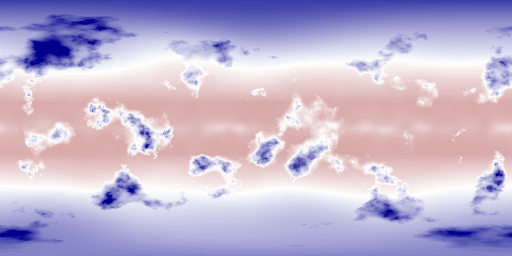
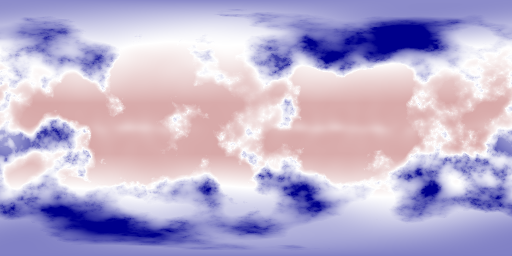
update example textures and README

diff --git a/ch.obermuhlner.planetgen/src/test/java/ch/obermuhlner/planetgen/test/PlanetGeneratorTest.java b/ch.obermuhlner.planetgen/src/test/java/ch/obermuhlner/planetgen/test/PlanetGeneratorTest.java
@@ -16,17 +16,16 @@ import java.util.Arrays;
 import java.util.Map;
 
 public class PlanetGeneratorTest {
-    @Test
-    public void testGetPlanetPoint() {
+    private Planet generatePlanet() {
         PlanetGenerator planetGenerator = new PlanetGenerator();
 
         // unique seed for the planet
-        long[] seed = new long[] { 123L };
+        long[] seed = new long[] { 4 };
 
         // generate planet data for unique seed
         PlanetData planetData = planetGenerator.createPlanetData(seed);
 
-        // random generated planet data
+        // print some values of generated planet
         System.out.println("radius : " + planetData.radius + " m");
         System.out.println("revolutionTime : " + planetData.revolutionTime + " s");
         System.out.println("orbitTime : " + planetData.orbitTime + " s");
@@ -37,13 +36,22 @@ public class PlanetGeneratorTest {
         // create planet according to planet data constraints
         Planet planet = planetGenerator.createPlanet(planetData);
 
+        return planet;
+    }
+
+    @Test
+    public void testGetPlanetPoint() {
+        Planet planet = generatePlanet();
+
         // specify which layers and what accuracy you need (default has all layers and good enough accuracy)
         PlanetGenerationContext context = planet.createDefaultContext();
 
         // generate planet at one specific point (useful to know about the current location of a player in a game)
-        double latitudeRadians = Math.toRadians(180) - Math.toRadians(47.2266 + 90);
-        double longitudeRadians = Math.toRadians(8.8184);
+        double latitudeRadians = Math.toRadians(90.0);
+        double longitudeRadians = Math.toRadians(0.0);
         PlanetPoint planetPoint = planet.getPlanetPoint(latitudeRadians, longitudeRadians, context);
+
+        // print some values for the specific point on the planet
         System.out.println("height : " + planetPoint.height + " m");
         System.out.println("temperature : " + planetPoint.temperature + " K");
         System.out.println("precipitation : " + planetPoint.precipitation);
@@ -52,22 +60,20 @@ public class PlanetGeneratorTest {
 
     @Test
     public void testGetTextures() {
-        PlanetGenerator planetGenerator = new PlanetGenerator();
-        long[] seed = new long[] { 123L };
-        PlanetData planetData = planetGenerator.createPlanetData(seed);
-        planetData.baseTemperature = 290;
+        Planet planet = generatePlanet();
 
-        Planet planet = planetGenerator.createPlanet(planetData);
-
+        // specify context and add the texture types you want to generate (we simply add all of them)
         PlanetGenerationContext context = planet.createDefaultContext();
         context.textureTypes.addAll(Arrays.asList(TextureType.values()));
 
+        // generate 512 x 256 pixel textures for the entire planet
         Map<TextureType, TextureWriter<BufferedImage>> textures = planet.getTextures(512, 256, context, (width, height, textureType) -> new BufferedImageTextureWriter(width, height));
 
+        // save the textures into png files
         try {
-            for (TextureType textureType : TextureType.values()) {
-                String filename = textureType.name().toLowerCase() + ".png";
-                BufferedImage image = textures.get(textureType).getTexture();
+            for (Map.Entry<TextureType, TextureWriter<BufferedImage>> entry : textures.entrySet()) {
+                String filename = entry.getKey().name().toLowerCase() + ".png";
+                BufferedImage image = entry.getValue().getTexture();
                 ImageIO.write(image, "png", new File(filename));
             }
         } catch (IOException e) {

diff --git a/ch.obermuhlner.planetgen/src/main/java/ch/obermuhlner/planetgen/generator/PlanetGenerator.java b/ch.obermuhlner.planetgen/src/main/java/ch/obermuhlner/planetgen/generator/PlanetGenerator.java
@@ -444,7 +444,7 @@ public class PlanetGenerator {
 						0.0,
 						1.0)));
 		planet.layers.put(LayerType.OCEAN, new OceanLayer(
-				RandomColor.random(random, rgb(0.0, 0.0, 0.30), rgb(0.0, 0.0, 0.40), rgb(0.0, 0.50, 0.70))));
+				rgb(0.20, 0.14, 0.27)));
 		planet.layers.put(LayerType.ATMOSPHERIC_PRESSURE, new AtmosphericPressureLayer(
 				new NoiseSphereValue(
 						new FractalNoise(

diff --git a/README.md b/README.md
@@ -8,6 +8,10 @@ The viewer is a separate project that uses JavaFX.
 
 ## Example Code
 
+The following code snippets show a typical simple use case.
+
+### Generate an instance of Planet
+
 The first step to generate a planet is to define the unique random seed for the planet and
 generate the basic planet data from it.
 
@@ -15,12 +19,12 @@ generate the basic planet data from it.
         PlanetGenerator planetGenerator = new PlanetGenerator();
 
         // unique seed for the planet
-        long[] seed = new long[] { 123L };
+        long[] seed = new long[] { 4 };
 
         // generate planet data for unique seed
         PlanetData planetData = planetGenerator.createPlanetData(seed);
 
-        // random generated planet data
+        // print some random generated planet values
         System.out.println("radius : " + planetData.radius + " m");
         System.out.println("revolutionTime : " + planetData.revolutionTime + " s");
         System.out.println("orbitTime : " + planetData.orbitTime + " s");
@@ -32,6 +36,15 @@ generate the basic planet data from it.
         Planet planet = planetGenerator.createPlanet(planetData);
 ```
 
+The output looks like this:
+```console
+radius : 5137796.466254459 m
+revolutionTime : 59521302 s
+orbitTime : 40005614677 s
+```
+
+### Query a specific point on a Planet 
+
 With the planet data generated we can now generate specific information for any point of the surface of the planet.
 
 This is useful to know the conditions at the location of the player in a game.
@@ -40,30 +53,45 @@ This is useful to know the conditions at the location of the player in a game.
         // specify which layers and what accuracy you need (default has all layers and good enough accuracy)
         PlanetGenerationContext context = planet.createDefaultContext();
 
-        // generate planet at one specific point
-        double latitudeRadians = Math.toRadians(180) - Math.toRadians(47.2266 + 90);
-        double longitudeRadians = Math.toRadians(8.8184);
+        // generate planet at one specific point (useful to know about the current location of a player in a game)
+        double latitudeRadians = Math.toRadians(90.0);
+        double longitudeRadians = Math.toRadians(0.0);
         PlanetPoint planetPoint = planet.getPlanetPoint(latitudeRadians, longitudeRadians, context);
+
+        // print some values for the specific point on the planet
         System.out.println("height : " + planetPoint.height + " m");
         System.out.println("temperature : " + planetPoint.temperature + " K");
         System.out.println("precipitation : " + planetPoint.precipitation);
         System.out.println("color : " + planetPoint.color);
 ```
 
-For rendering an entire planet we can create the necessary textures into images.
+The output looks like this:
+```console
+height : 6015.265244579083 m
+temperature : 271.7990658042786 K
+precipitation : 0.0
+color : (0.6295682289054663, 0.5518509754711629, 0.4010190099591988)
+```
+
+### Create textures for a Planet
+
+To render an entire planet we can create the necessary textures into images.
 
 The following example creates all texture types that the framework knows about.
 
 ```java
+        // specify context and add the texture types you want to generate (we simply add all of them)
         PlanetGenerationContext context = planet.createDefaultContext();
         context.textureTypes.addAll(Arrays.asList(TextureType.values()));
 
-        Map<TextureType, TextureWriter<BufferedImage>> textures = planet.getTextures(1024, 512, context, (width, height, textureType) -> new BufferedImageTextureWriter(width, height));
+        // generate 512 x 256 pixel textures for the entire planet
+        Map<TextureType, TextureWriter<BufferedImage>> textures = planet.getTextures(512, 256, context, (width, height, textureType) -> new BufferedImageTextureWriter(width, height));
 
+        // save the textures into png files
         try {
-            for (TextureType textureType : TextureType.values()) {
-                String filename = textureType.name().toLowerCase() + ".png";
-                BufferedImage image = textures.get(textureType).getTexture();
+            for (Map.Entry<TextureType, TextureWriter<BufferedImage>> entry : textures.entrySet()) {
+                String filename = entry.getKey().name().toLowerCase() + ".png";
+                BufferedImage image = entry.getValue().getTexture();
                 ImageIO.write(image, "png", new File(filename));
             }
         } catch (IOException e) {
@@ -71,9 +99,7 @@ The following example creates all texture types that the framework knows about.
         }
 ```
 
-## Example Textures
-
-The following example textures where generated with the sample code above.
+The following textures where generated with the sample code above.
 
 Surface color map:
 
